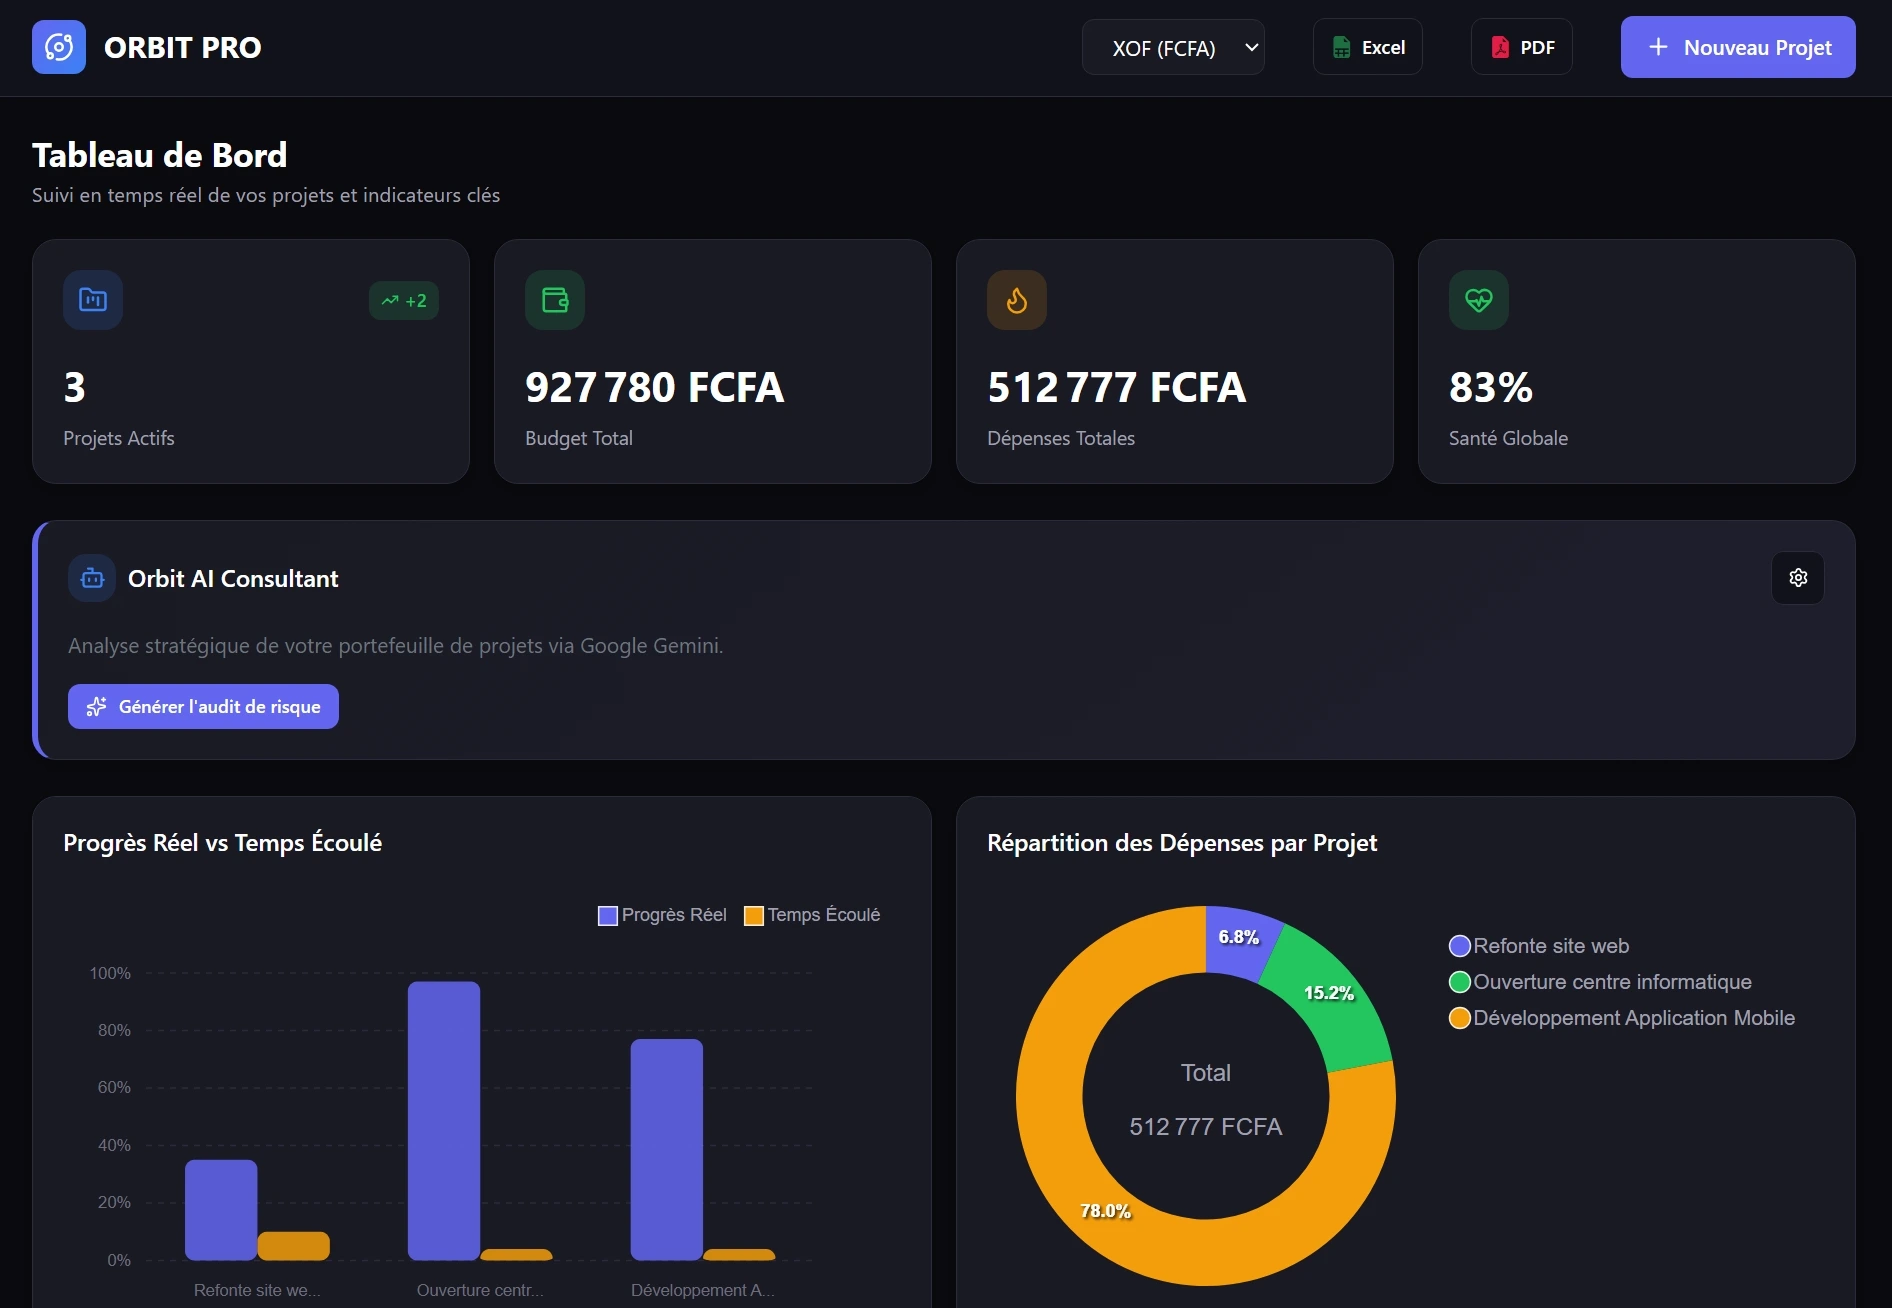
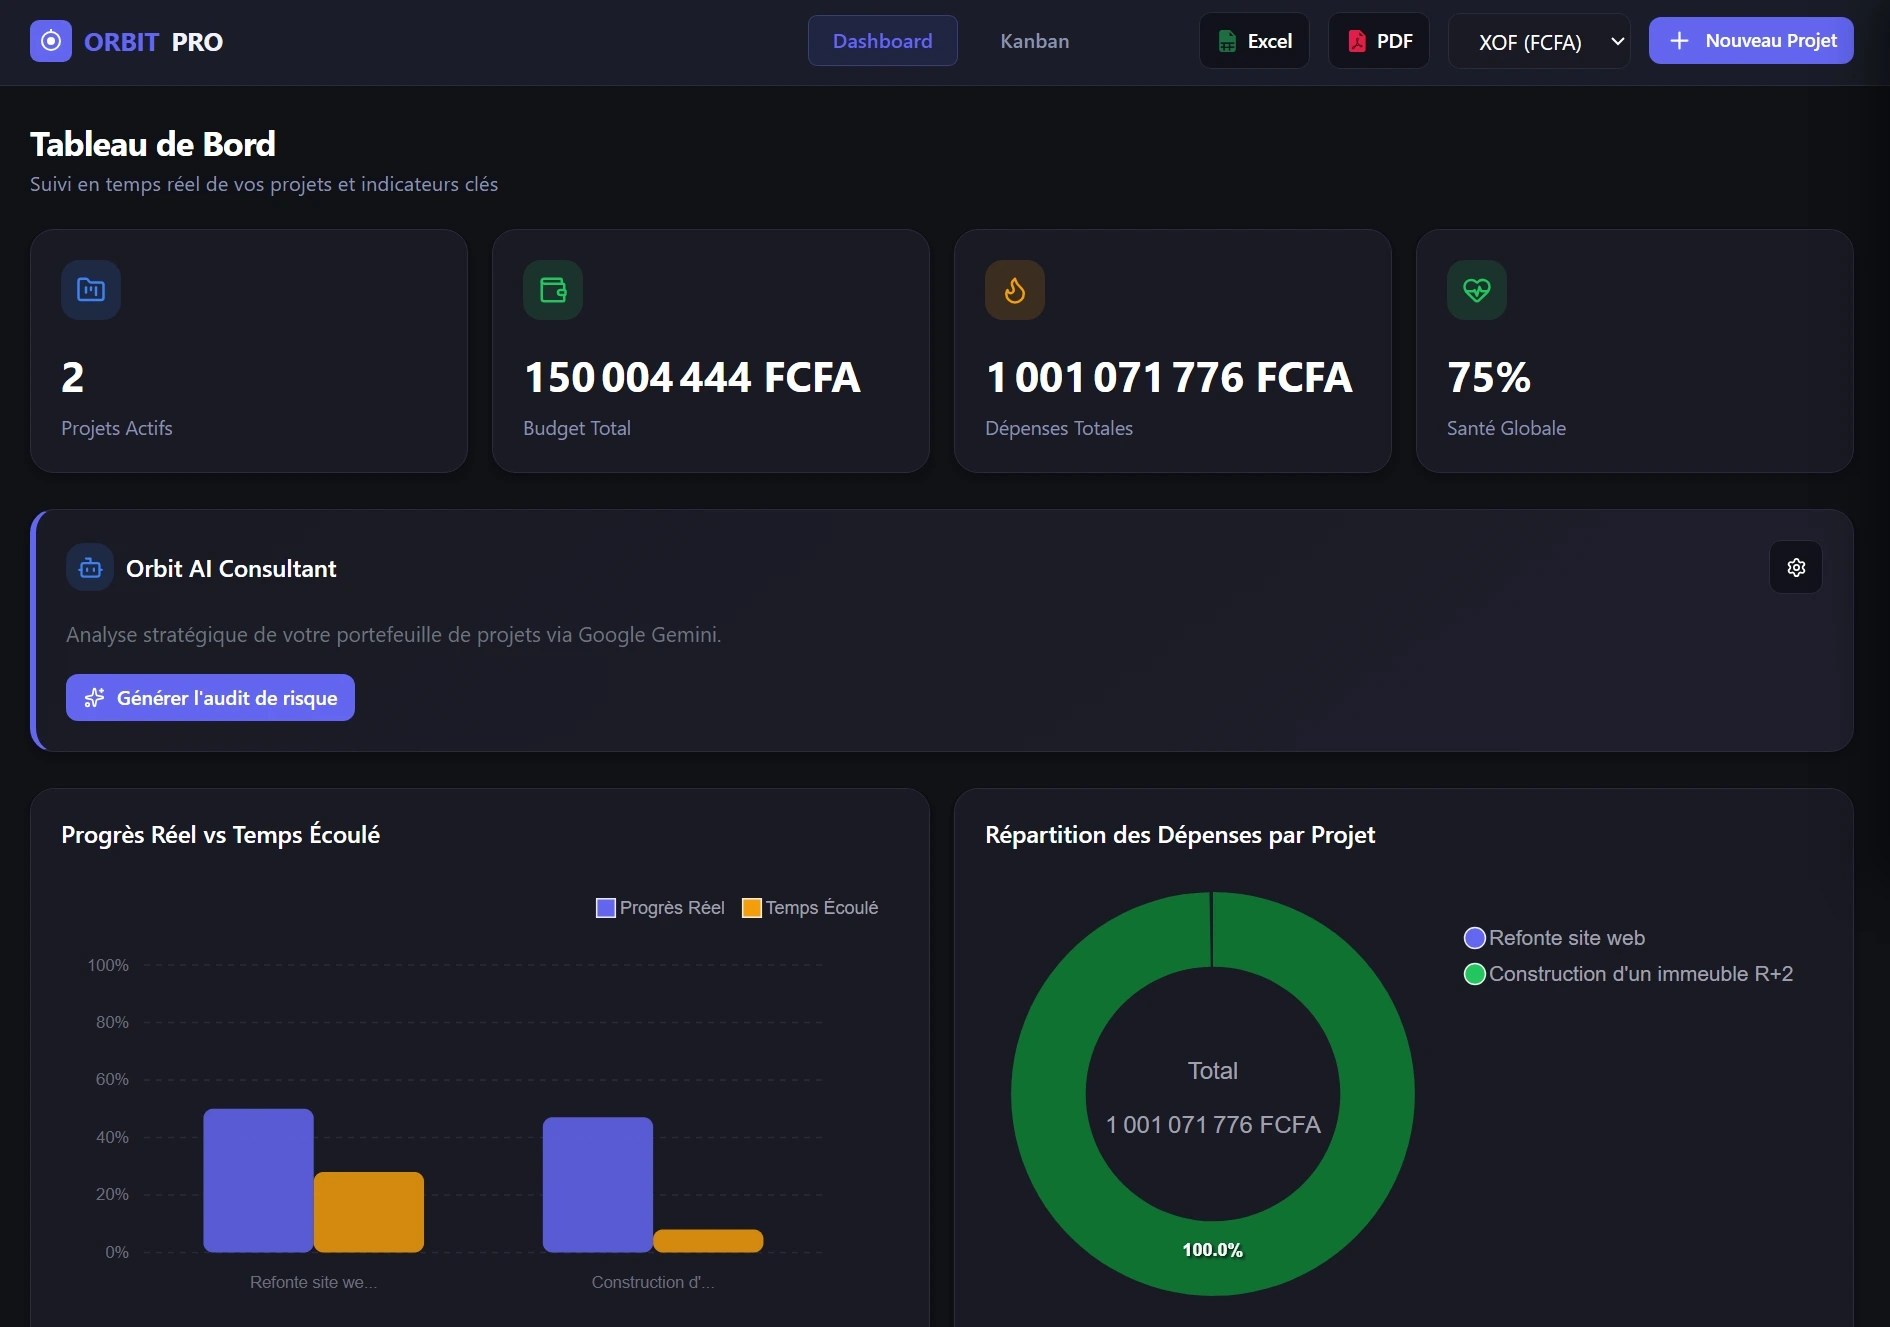
u

diff --git a/index.html b/index.html
@@ -2960,25 +2960,34 @@
 
       <div class="project-dashboard">
 
-        <!-- PROJET 1 : KLIRÔ -->
+       
+
+          <!-- PROJET  : ORBIT PRO -->
         <div class="project-card-db">
           <div class="db-header">
-            <span class="db-badge">Product Owner</span>
+            <span class="db-badge">Lead Developer & Product Owner</span>
 
           </div>
-          <h3 class="db-title">Projet "Klirô"</h3>
-          <p class="db-subtitle">Lavage auto avec technologie Waterless | Hackathon EIG</p>
+          <h3 class="db-title">ORBIT PRO</h3>
+          <p class="db-subtitle">Application SaaS de Pilotage de Projet | Dashboard Analytics + Kanban Interactif + IA</p>
           <ul class="db-list">
-            <li><strong>Vision Produit :</strong> Définition du positionnement "Premium Tech" et de la stratégie de
-              monétisation (abonnements et paiements mobiles avec incentives).</li>
-            <li><strong>Management d'équipe :</strong> Direction de 15+ designers répartis en 3 pôles. Arbitrage sur
-              l'identité de marque.</li>
-            <li><strong>Optimisation UX :</strong> Conception d'un parcours de réservation fluide garantissant une
-              conversion en moins de 2 minutes.</li>
-            <li><strong>Livrable :</strong> Design System complet de 30 pages et prototype haute-fidélité validé par un
-              jury d'experts.</li>
+            <li><strong>Conception Produit & IA :</strong> Intégration de Google Gemini API pour analyses stratégiques
+              assistées par IA.</li>
+            <li><strong>Architecture Front-End :</strong> Développement d'interfaces interactives et 100% responsives en
+              Vanilla JavaScript et Bootstrap.</li>
+            <li><strong>Analyse & Décision :</strong> Évaluation de la corrélation Budget/Délais/Avancement pour
+              faciliter le pilotage.</li>
+               <li><strong>Gestion de Projet Kanban :</strong> Conception d'un tableau Kanban interactif 
+  (drag & drop natif, synchronisation temps réel Dashboard ↔ Kanban, 
+  détection automatique des retards) en Vanilla JavaScript pur.</li>
+            <li><strong>Visualisation de Données :</strong> Tableaux de bord temps réel avec 4 KPIs 
+        financiers et 2 graphiques de performance (ApexCharts).</li>
+            <li><strong>Reporting & Export :</strong> Fonctionnalités d'exportation PDF (jsPDF) et Excel (SheetJS) pour
+              les parties prenantes.</li>
+            <li><strong>Open Source :</strong> Publication sur GitHub avec README technique complet.</li>
           </ul>
         </div>
+
 
         <!-- PROJET 2 : HÔTEL SEGURO -->
         <div class="project-card-db">
@@ -3002,29 +3011,25 @@
           </ul>
         </div>
 
-        <!-- PROJET 3 : ORBIT PRO -->
+         <!-- PROJET 1 : KLIRÔ -->
         <div class="project-card-db">
           <div class="db-header">
-            <span class="db-badge">Lead Developer & Product Owner</span>
+            <span class="db-badge">Product Owner</span>
 
           </div>
-          <h3 class="db-title">ORBIT PRO</h3>
-          <p class="db-subtitle">Application SaaS de Pilotage de Projet Assistée par IA</p>
+          <h3 class="db-title">Projet "Klirô"</h3>
+          <p class="db-subtitle">Lavage auto avec technologie Waterless | Hackathon EIG</p>
           <ul class="db-list">
-            <li><strong>Conception Produit & IA :</strong> Intégration de Google Gemini API pour analyses stratégiques
-              assistées par IA.</li>
-            <li><strong>Architecture Front-End :</strong> Développement d'interfaces interactives et 100% responsives en
-              Vanilla JavaScript et Bootstrap.</li>
-            <li><strong>Analyse & Décision :</strong> Évaluation de la corrélation Budget/Délais/Avancement pour
-              faciliter le pilotage.</li>
-            <li><strong>Visualisation de Données :</strong> Tableaux de bord analytiques dynamiques via ApexCharts.</li>
-            <li><strong>Reporting & Export :</strong> Fonctionnalités d'exportation PDF (jsPDF) et Excel (SheetJS) pour
-              les parties prenantes.</li>
-            <li><strong>Open Source :</strong> Publication avec documentation complète pour la communauté.</li>
+            <li><strong>Vision Produit :</strong> Définition du positionnement "Premium Tech" et de la stratégie de
+              monétisation (abonnements et paiements mobiles avec incentives).</li>
+            <li><strong>Management d'équipe :</strong> Direction de 15+ designers répartis en 3 pôles. Arbitrage sur
+              l'identité de marque.</li>
+            <li><strong>Optimisation UX :</strong> Conception d'un parcours de réservation fluide garantissant une
+              conversion en moins de 2 minutes.</li>
+            <li><strong>Livrable :</strong> Design System complet de 30 pages et prototype haute-fidélité validé par un
+              jury d'experts.</li>
           </ul>
         </div>
-
-
 
         <div class="project-card-db">
           <div class="db-header">
@@ -3112,7 +3117,7 @@
             <div class="portfolio-type-v4">Web Application</div>
             <h3 class="portfolio-title-v4">ORBIT PRO | Moteur de Pilotage de Projet Assisté par l'IA</h3>
             <p class="portfolio-desc-v4">Solution analytique SaaS de nouvelle génération conçue pour le pilotage
-              stratégique de projets. Orbit PRO fusionne la méthode EVM avec l'IA pour offrir une visibilité 360° sur la
+              stratégique de projets. Orbit PRO fusionne la méthode EVM, la gestion Kanban avec l'IA pour offrir une visibilité 360° sur la
               corrélation Temps/Budget/Avancement. <br> <br>
               <strong>Projet Open Source :</strong> Disponible pour test et contribution
             </p>
@@ -3121,7 +3126,7 @@
                 API</span><span class="portfolio-tag-v4">ApexCharts</span><span
                 class="portfolio-tag-v4">Bootstrap</span><span class="portfolio-tag-v4">LocalStorage</span><span
                 class="portfolio-tag-v4">HTML2PDF.JS</span><span class="portfolio-tag-v4">Lucide Icons</span><span
-                class="portfolio-tag-v4">SheetJS</span>
+                class="portfolio-tag-v4">SheetJS</span> <span class="portfolio-tag-v4">Drag & Drop API</span>
             </div>
             <div class="portfolio-links-v4">
               <a href="https://orbit-pro-five.vercel.app" target="_blank" class="portfolio-link-v4">

diff --git a/index-en.html b/index-en.html
@@ -2485,7 +2485,7 @@
     <a href="#about" onclick="closeMenu()">About</a>
     <a href="#services" onclick="closeMenu()">Services</a>
     <a href="#parcours" onclick="closeMenu()">Experience</a>
-    <a href="#projets" onclick="closeMenu()">Projets</a>
+    <a href="#projets" onclick="closeMenu()">Projects</a>
     <a href="#portfolio" onclick="closeMenu()">Portfolio</a>
     <a href="#certifications" onclick="closeMenu()">Certifications</a>
     <a href="#contact" onclick="closeMenu()">Contact</a>
@@ -2502,7 +2502,7 @@
       <li><a href="#about">About</a></li>
       <li><a href="#services">Services</a></li>
       <li><a href="#parcours">Experience</a></li>
-      <li><a href="#projets">Projets</a></li>
+      <li><a href="#projets">Projects</a></li>
       <li><a href="#portfolio">Portfolio</a></li>
       <li><a href="#certifications">Certifications</a></li>
       <li><a href="#contact">Contact</a></li>
@@ -2958,25 +2958,29 @@
 
       <div class="project-dashboard">
 
-        <!-- PROJET 1 : KLIRÔ -->
+          <!-- PROJET 3 : ORBIT PRO  -->
         <div class="project-card-db">
           <div class="db-header">
-            <span class="db-badge">Product Owner</span>
+            <span class="db-badge">Lead Developer & Product Owner</span>
 
           </div>
-          <h3 class="db-title">Project "Klirô"</h3>
-          <p class="db-subtitle">Car wash with Waterless technology | EIG Hackathon</p>
+          <h3 class="db-title">ORBIT PRO</h3>
+          <p class="db-subtitle">SaaS Project Management App | Analytics Dashboard + Interactive Kanban + AI</p>
           <ul class="db-list">
-            <li><strong>Product Vision :</strong> Defining the 'Premium Tech' positioning and monetization strategy
-              (subscriptions and mobile payments with incentives).</li>
-            <li><strong>Team Management :</strong> Leading 15+ designers across 3 teams. Making decisions on brand
-              identity.</li>
-            <li><strong>UX Optimization :</strong> Designing a smooth booking flow ensuring conversion in under 2
-              minutes.</li>
-            <li><strong>Deliverable :</strong> Complete 30-page Design System and high-fidelity prototype approved by a
-              panel of experts.</li>
+            <li><strong>Product Design & AI :</strong> Integration of Google Gemini API for AI-assisted strategic
+              analyses.</li>
+            <li><strong>Front-End Architecture :</strong> Development of interactive and fully responsive interfaces
+              using Vanilla JavaScript and Bootstrap.</li>
+            <li><strong>Analysis & Decision :</strong> Evaluation of Budget/Timeline/Progress correlation to make
+              project management easier.</li>
+              <li><strong>Kanban Project Management :</strong>Designing an interactive Kanban board (native drag & drop, real-time synchronization Dashboard ↔ Kanban, automatic delay detection) in pure Vanilla JavaScript.</li>
+            <li><strong>Data Visualization :</strong> Real-time dashboards with 4 financial KPIs and 2 performance charts (ApexCharts).</li>
+            <li><strong>Reporting & Export :</strong> PDF (jsPDF) and Excel (SheetJS) export features for stakeholders.
+            </li>
+            <li><strong>Open Source :</strong> Released on GitHub with a complete technical README.</li>
           </ul>
         </div>
+
 
         <!-- PROJET 2 : HÔTEL SEGURO -->
         <div class="project-card-db">
@@ -3000,25 +3004,23 @@
           </ul>
         </div>
 
-        <!-- PROJET 3 : ORBIT PRO  -->
+       <!-- PROJET 1 : KLIRÔ -->
         <div class="project-card-db">
           <div class="db-header">
-            <span class="db-badge">Lead Developer & Product Owner</span>
+            <span class="db-badge">Product Owner</span>
 
           </div>
-          <h3 class="db-title">ORBIT PRO</h3>
-          <p class="db-subtitle">AI-Assisted Project Management SaaS Application</p>
+          <h3 class="db-title">Project "Klirô"</h3>
+          <p class="db-subtitle">Car wash with Waterless technology | EIG Hackathon</p>
           <ul class="db-list">
-            <li><strong>Product Design & AI :</strong> Integration of Google Gemini API for AI-assisted strategic
-              analyses.</li>
-            <li><strong>Front-End Architecture :</strong> Development of interactive and fully responsive interfaces
-              using Vanilla JavaScript and Bootstrap.</li>
-            <li><strong>Analysis & Decision :</strong> Evaluation of Budget/Timeline/Progress correlation to make
-              project management easier.</li>
-            <li><strong>Data Visualization :</strong> Dynamic analytical dashboards via ApexCharts.</li>
-            <li><strong>Reporting & Export :</strong> PDF (jsPDF) and Excel (SheetJS) export features for stakeholders.
-            </li>
-            <li><strong>Open Source :</strong> Released with full documentation for the community.</li>
+            <li><strong>Product Vision :</strong> Defining the 'Premium Tech' positioning and monetization strategy
+              (subscriptions and mobile payments with incentives).</li>
+            <li><strong>Team Management :</strong> Leading 15+ designers across 3 teams. Making decisions on brand
+              identity.</li>
+            <li><strong>UX Optimization :</strong> Designing a smooth booking flow ensuring conversion in under 2
+              minutes.</li>
+            <li><strong>Deliverable :</strong> Complete 30-page Design System and high-fidelity prototype approved by a
+              panel of experts.</li>
           </ul>
         </div>
 
@@ -3104,7 +3106,7 @@
             <div class="portfolio-type-v4">Web Application</div>
             <h3 class="portfolio-title-v4">ORBIT PRO | AI-Powered Project Management Engine</h3>
             <p class="portfolio-desc-v4">A new-generation SaaS analytical solution for strategic project monitoring.
-              Orbit PRO merges EVM with AI to provide 360° visibility into the correlation between Time, Budget, and
+              Orbit PRO merges EVM, Kanban Project Management with AI to provide 360° visibility into the correlation between Time, Budget, and
               Operational Progress. <br> <br>
               <strong>Open Source Project :</strong> Available for testing and contribution.
             </p>